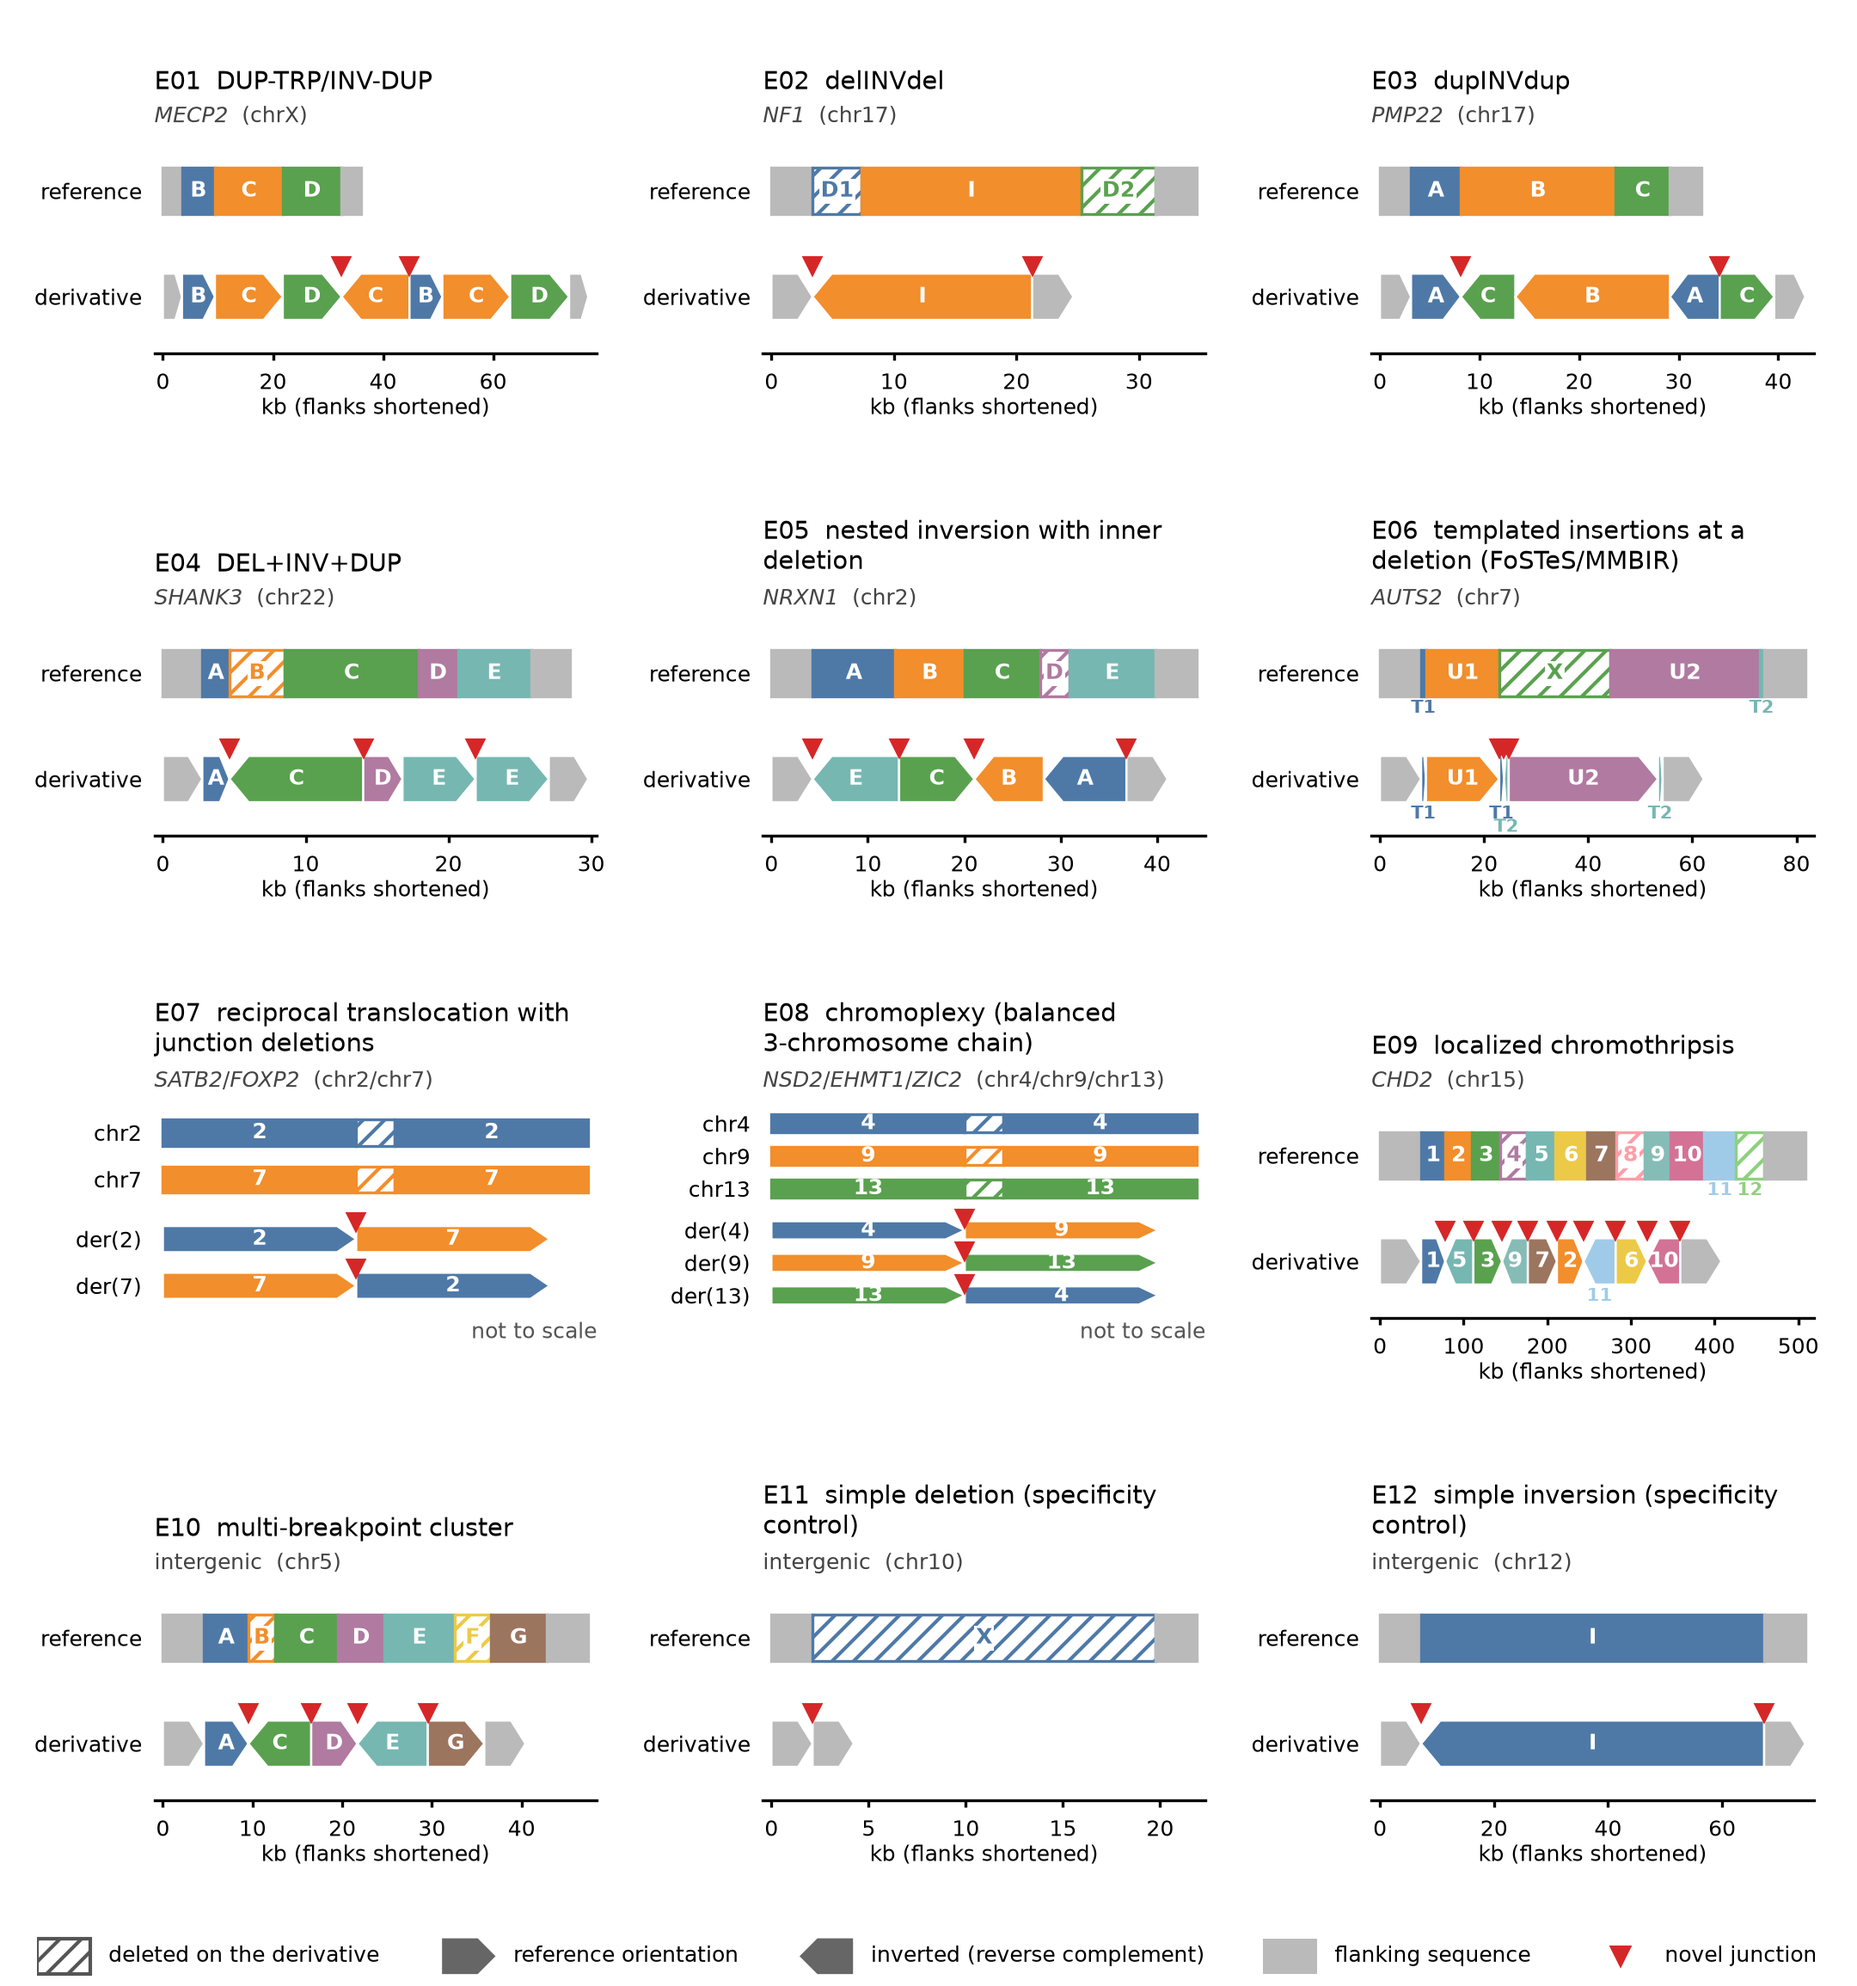
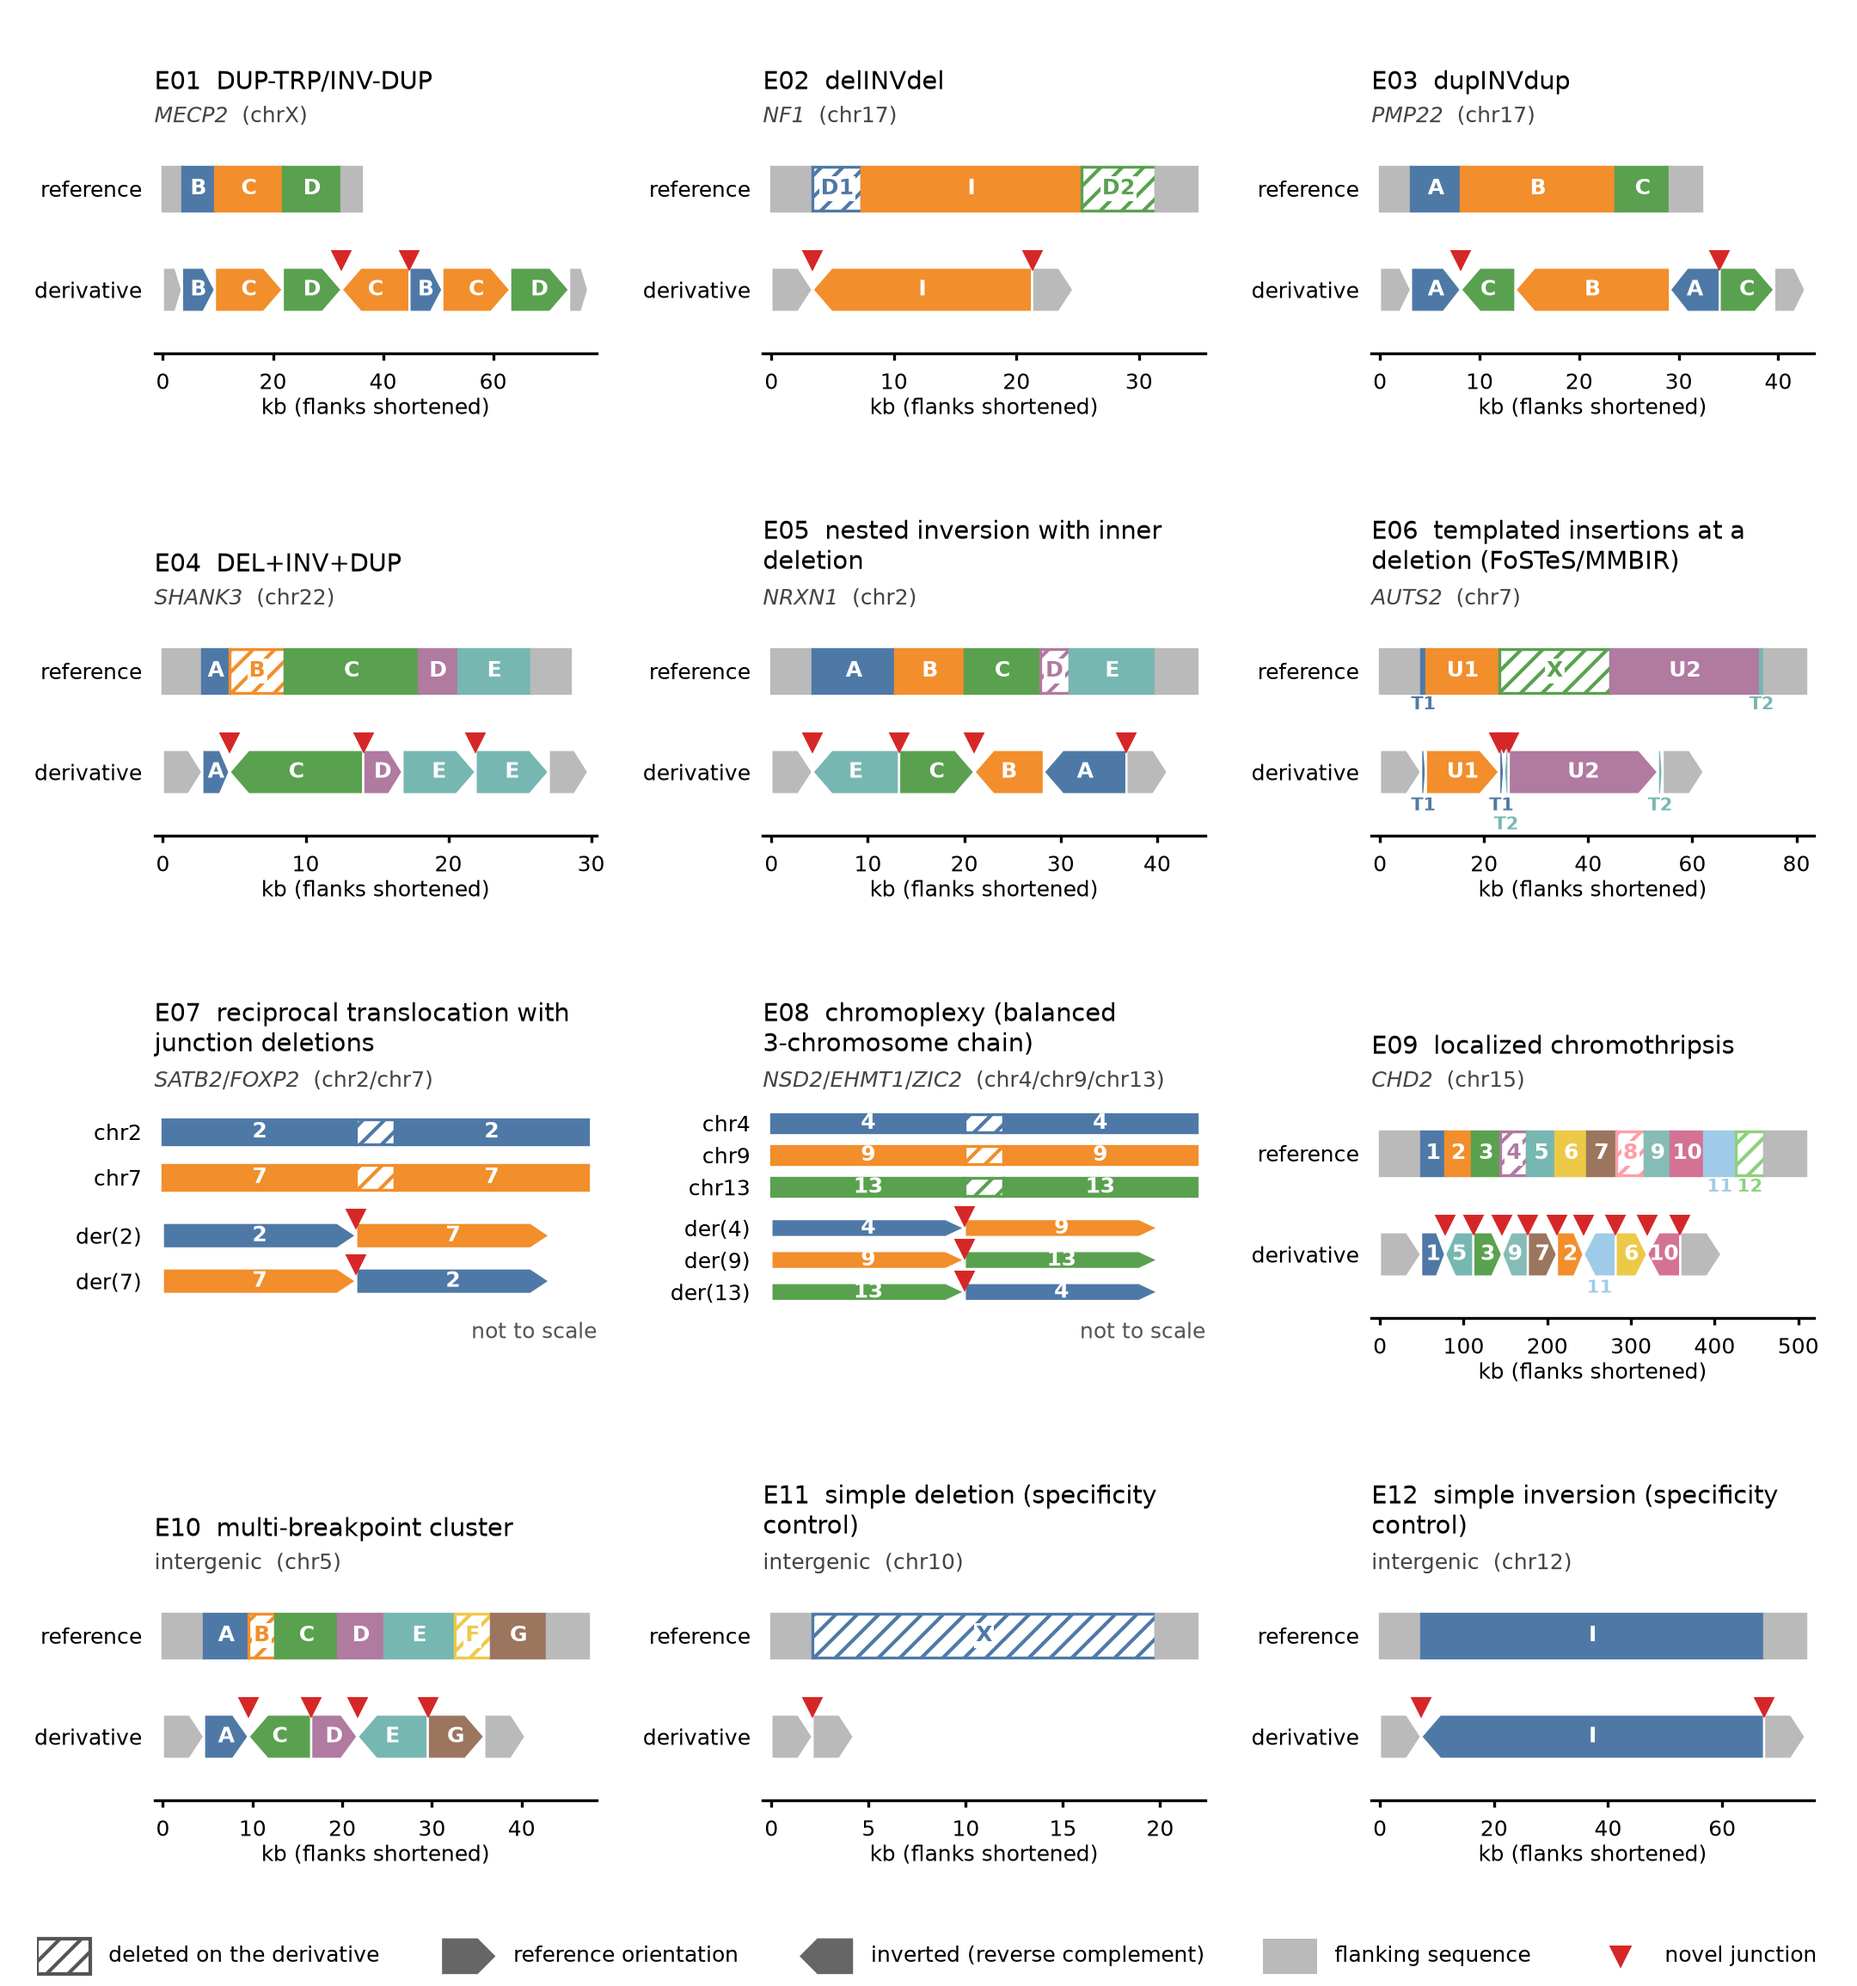
Positive-control figure: stagger narrow-segment labels clear of each other and the axis

diff --git a/tests/positive_control/plot_events.py b/tests/positive_control/plot_events.py
@@ -64,7 +64,7 @@ def block(ax, x, w, y, h, colour, strand=None, hatch=None, label=None, alpha=1.0
                       for py, lv, px0, px1 in below_labels):
                 level += 1
             below_labels.append((y, level, cx - half, cx + half))
-            ax.text(cx, y - 0.04 - 0.2 * level, label, ha="center", va="top", fontsize=5,
+            ax.text(cx, y - 0.04 - 0.3 * level, label, ha="center", va="top", fontsize=5,
                     fontweight="bold", color=colour)
 
 
@@ -140,7 +140,7 @@ def draw_event(ax, ev):
     ax.set_yticklabels([t for _, t in ylabels], fontsize=6)
     ax.tick_params(axis="y", length=0)
     ax.set_xlim(-total_w * 0.02, total_w * 1.02)
-    ax.set_ylim(-(len(rows) - 1) * (h + gap) - 0.85, h + 0.45)
+    ax.set_ylim(-(len(rows) - 1) * (h + gap) - 1.0, h + 0.45)
     for s in ("top", "right", "left"):
         ax.spines[s].set_visible(False)
     if inter:
